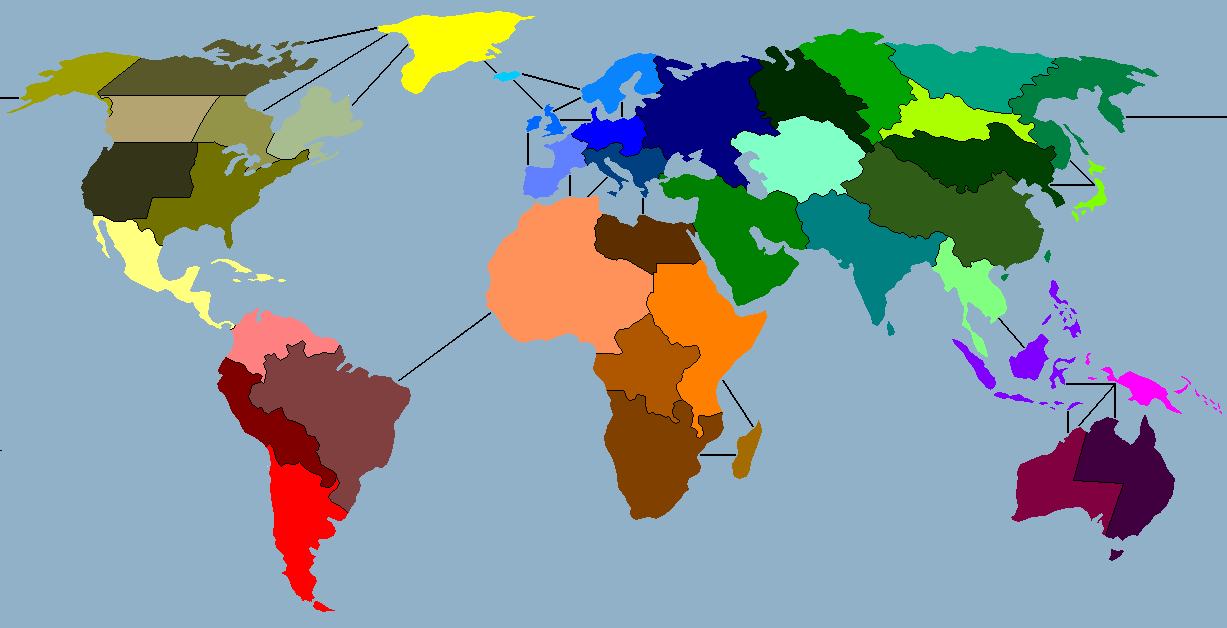
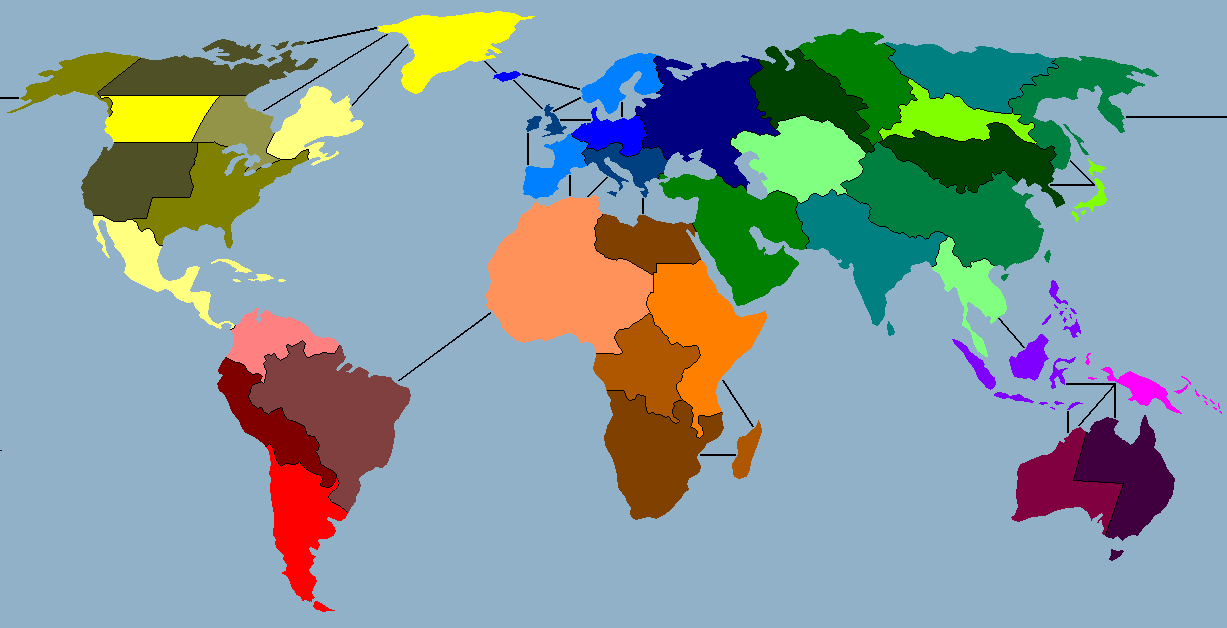
El mapa con las imagenes nuevas y las coordenadas correctas.

diff --git a/src/com/umbrella/worldconq/ui/MapView.java b/src/com/umbrella/worldconq/ui/MapView.java
@@ -8,19 +8,59 @@ import java.io.IOException;
 import javax.imageio.ImageIO;
 import javax.swing.JComponent;
 
-import com.umbrella.worldconq.domain.TerritoryData;
-
 public class MapView extends JComponent {
 
 	private static final long serialVersionUID = 1L;
 
 	private java.awt.Image fondo;
 	private java.awt.Image pais;
+	private String info;
 	private int x;
 	private int y;
+	private static int[] xTerritory = {
+			514, 492, 568, 579, 581, 632, 521, 728, 839, 793, 877, 1069, 1008,
+			657, 877, 931, 797, 746, 883, 591, 645, 593, 730, 483, 602, 5, 100,
+			93, 132, 375, 96, 190, 265, 80, 264, 247, 214, 224, 1073, 943,
+			1083, 1009
+	};
+	private static int[] yTerritory = {
+			102, 69, 105, 51, 130, 53, 132, 114, 140, 188, 78, 157, 54, 172,
+			120, 234, 26, 45, 40, 312, 257, 212, 418, 193, 389, 50, 95, 215,
+			140, 8, 38, 95, 85, 142, 442, 339, 355, 306, 413, 271, 351, 425
+	};
+	private static String[] imageTerritory = {
+			"eu1sel.png", "eu2sel.png", "eu3sel.png", "eu4sel.png",
+			"eu5sel.png", "eu6sel.png", "eu7sel.png", "as1sel.png",
+			"as2sel.png", "as3sel.png", "as4sel.png", "as5sel.png",
+			"as6sel.png", "as7sel.png", "as8sel.png", "as9sel.png",
+			"as10sel.png", "as11sel.png", "as12sel.png", "af1sel.png",
+			"af2sel.png", "af3sel.png", "af4sel.png", "af5sel.png",
+			"af6sel.png", "na1sel.png", "na2sel.png", "na3sel.png",
+			"na4sel.png", "na5sel.png", "na6sel.png", "na7sel.png",
+			"na8sel.png", "na9sel.png", "sa1sel.png", "sa2sel.png",
+			"sa3sel.png", "sa4sel.png", "oc1sel.png", "oc2sel.png",
+			"oc3sel.png", "oc4sel.png"
+	};
+	private static int[] colorTerritory = {
+			-16750593, -16724737, -16776961, -16153347, -16760704, -16777088,
+			-10452737, -8323129, -13673450, -16744320, -5439744, -8323328,
+			-16744384, -16744448, -16760832, -8323200, -16735488, -16766464,
+			-16735360, -5351680, -32768, -10670336, -6001920, -28325, -8372224,
+			-6382080, -4938639, -128, -9342720, -256, -10987477, -7039927,
+			-5784176, -13356007, -65536, -8372160, -8388608, -32640, -12582848,
+			-8388353, -65281, -8388544
+	}; //color agua -7228984
 
 	public MapView() {
 		super();
+	}
+
+	public static int getIndex(int color) {
+		int ret = -1;
+		for (int i = 0; i < colorTerritory.length; i++) {
+			if (color == colorTerritory[i]) ret = i;
+		}
+		return ret;
 	}
 
 	public java.awt.Image getPais() {
@@ -31,18 +71,30 @@ public class MapView extends JComponent {
 		this.pais = pais;
 	}
 
+	public static int getX(int idx) {
+		return xTerritory[idx];
+	}
+
+	public static int getY(int idx) {
+		return yTerritory[idx];
+	}
+
+	public static String getImageTerrirtory(int idx) {
+		return imageTerritory[idx];
+	}
+
 	public void ponerSel(int numTerritory) {
 		final String dir = System.getProperty("user.dir") + "/src/image/";
 		BufferedImage bi = null;
 		try {
 			bi = ImageIO.read(new File(dir
-					+ TerritoryData.getImageTerrirtory(numTerritory)));
+					+ getImageTerrirtory(numTerritory)));
 		} catch (final IOException e) {
 			// TODO Auto-generated catch block
 			e.printStackTrace();
 		}
-		x = TerritoryData.getX(numTerritory);
-		y = TerritoryData.getY(numTerritory);
+		x = getX(numTerritory);
+		y = getY(numTerritory);
 		this.setPais(bi);
 	}
 
@@ -54,9 +106,22 @@ public class MapView extends JComponent {
 		this.fondo = fondo;
 	}
 
+	public String getInfo() {
+		return info;
+	}
+
+	public void setInfo(String info) {
+		this.info = info;
+	}
+
 	@Override
-	public void paintComponent(Graphics g) {
+	public void paint(Graphics g) {
 		g.drawImage(fondo, 0, 0, null);
-		g.drawImage(pais, x, y, null);
+		if (pais != null) {
+			g.drawImage(pais, x, y, null);
+		}
+		if (info != null) {
+			g.drawString(info, x + 10, y + 10);
+		}
 	}
 }

diff --git a/src/com/umbrella/worldconq/domain/TerritoryData.java b/src/com/umbrella/worldconq/domain/TerritoryData.java
@@ -5,39 +5,23 @@ import es.uclm.iso2.rmi.Territory.Continent;
 
 public class TerritoryData {
 	private final static String[] nameList = {
-			"Alaska", "Alberta", "América Central", "Estados Unidos del Este",
-			"Groenlandia", "Territorios del Noroeste", "Ontario", "Quebec",
-			"Estados Unidos del Oeste", "Argentina", "Brasil", "Perú",
-			"Venezuela", "Gran Bretaña", "Iceland", "Europa del Norte",
-			"Escandinavia", "Europa del Sur", "Ucrania",
-			"Europa Occidental", "Congo", "África Oriental", "Egipto",
-			"Madagascar", "África del Norte", "Sudáfrica", "Afghanistan",
+			"Gran Bretaña", "Iceland", "Europa del Norte", "Escandinavia",
+			"Europa del Sur", "Ucrania", "Europa Occidental", "Afghanistan",
 			"China", "India", "Irkutsk", "Japón", "Kamchatka", "Oriente Medio",
-			"Mongolia", "Siam", "Siberia", "Ural", "Yakutsk",
-			"Australia Oriental", "Indonesia", "Nueva Guinea",
+			"Mongolia", "Siam", "Siberia", "Ural", "Yakutsk", "Congo",
+			"África Oriental", "Egipto", "Madagascar", "África del Norte",
+			"Sudáfrica", "Alaska", "Alberta", "América Central",
+			"Estados Unidos del Este", "Groenlandia",
+			"Territorios del Noroeste", "Ontario", "Quebec",
+			"Estados Unidos del Oeste", "Argentina", "Brasil", "Perú",
+			"Venezuela", "Australia Oriental", "Indonesia", "Nueva Guinea",
 			"Australia Occidental"
 	};
-	private static int[] colorTerritory = {
-			-6382080, -4938639, -128, -9342720, -256, -10987477, -7039927,
-			-5784176, -13356007, -65536, -8372160, -8388608, -32640, -16750593,
-			-16724737, -16776961, -16744193, -16760704, -16777088, -10452737,
-			-5351680, -32768, -10670336, -6001920, -28325, -8372224, -8323129,
-			-13673450, -16744320, -5439744, -8323328, -16744384, -16744448,
-			-16760832, -8323200, -16735488, -16766464, -16735360, -12582848,
-			-8388353, -65281, -8388544
-	}; //color agua -7228984
-
-	private static int[] xTerritory = {
-			5, 100, 93, 132, 375, 96, 190, 265, 80
-	};
-	private static int[] yTerritory = {
-			50, 95, 215, 140, 8, 38, 95, 85, 142
-	};
-
-	private static String[] imageTerritory = {
-			"ameunosel.png", "amedossel.png", "ametressel.png",
-			"amecuatrosel.png", "amecincosel.png", "ameseissel.png",
-			"amesietesel.png", "ameochosel.png", "amenuevesel.png"
+	private static int[] priceTerritory = {
+			279, 197, 191, 296, 183, 288, 109, 212, 294, 298, 189, 171, 234,
+			273, 247, 140, 275, 193, 261, 280, 146, 143, 211, 176, 188, 122,
+			172, 285, 274, 141, 198, 236, 129, 118, 281, 116, 251, 170, 125,
+			245, 124, 150
 	};
 
 	public static int getIndex(Continent c, int idx) {
@@ -66,27 +50,8 @@ public class TerritoryData {
 		return nameList[getIndex(t)];
 	}
 
-	public static int getIndex(int color) {
-		int ret = -1;
-		for (int i = 0; i < colorTerritory.length; i++) {
-			if (color == colorTerritory[i]) ret = i;
-		}
-		return ret;
-	}
-
-	public static int getX(int idx) {
-		return xTerritory[idx];
-
-	}
-
-	public static int getY(int idx) {
-		return yTerritory[idx];
-
-	}
-
-	public static String getImageTerrirtory(int idx) {
-		return imageTerritory[idx];
-
+	public static int getPrice(int idx) {
+		return priceTerritory[idx];
 	}
 
 	//	public static ArrayList<Integer> getAdjacentIndices(int idx) {

diff --git a/src/com/umbrella/worldconq/ui/MainWindow.java b/src/com/umbrella/worldconq/ui/MainWindow.java
@@ -24,7 +24,6 @@ import javax.swing.ListSelectionModel;
 import javax.swing.WindowConstants;
 
 import com.umbrella.worldconq.WorldConqApp;
-import com.umbrella.worldconq.domain.TerritoryData;
 
 public class MainWindow extends JFrame {
 
@@ -39,7 +38,8 @@ public class MainWindow extends JFrame {
 	private JTable mOpenList = null;
 	private JTable mCurrentList = null;
 	private JTable mMap = null;
-	private BufferedImage bi = null;
+	private BufferedImage bufferImageColorPixel = null;
+	private BufferedImage bufferImageMap = null;
 
 	public MainWindow() {
 		super();
@@ -145,9 +145,8 @@ public class MainWindow extends JFrame {
 			//	this.getClass().getClassLoader().getResource(
 			//		"image/Map_risk.png")));
 			try {
-				final String dir = System.getProperty("user.dir")
-						+ "/src/image/";
-				bi = ImageIO.read(new File(dir + "Map_risk.png"));
+				bufferImageColorPixel = ImageIO.read(ClassLoader.getSystemResource("image/Map_risk_buffer.png"));
+				bufferImageMap = ImageIO.read(ClassLoader.getSystemResource("image/Map_risk.png"));
 			} catch (final IOException e) {
 				e.printStackTrace();
 			}
@@ -155,7 +154,7 @@ public class MainWindow extends JFrame {
 			//final JScrollPane mapPanel = new JScrollPane(mapLabel);
 
 			final MapView mv = new MapView();
-			mv.setFondo(bi);
+			mv.setFondo(bufferImageMap);
 			mGamePanel.addMouseListener(new MapMouseAdapter(mv));
 			mGamePanel.add(mv);
 		}
@@ -180,7 +179,8 @@ public class MainWindow extends JFrame {
 			try {
 				final String dir = System.getProperty("user.dir")
 						+ "/src/image/";
-				bi = ImageIO.read(new File(dir + "Map_risk.png"));
+				bufferImageColorPixel = ImageIO.read(new File(dir
+						+ "Map_risk.png"));
 			} catch (final IOException e) {
 				e.printStackTrace();
 			}
@@ -311,16 +311,19 @@ public class MainWindow extends JFrame {
 
 		@Override
 		public void mouseClicked(MouseEvent evt) {
-			final int gameSelected = TerritoryData.getIndex(bi.getRGB(
+			final int gameSelected = MapView.getIndex(bufferImageColorPixel.getRGB(
 				evt.getX(), evt.getY()));
+			//System.out.print(bufferImageColorPixel.getRGB(evt.getX(), evt.getY()));
 			if (gameSelected != -1) {
-				mv.removeAll();
-				mv.setFondo(bi);
-				mv.ponerSel(gameSelected);
-				mv.repaint();
 				final String infoText =
 						app.getGameManager().getGameEngine().getMapListModel().getRowInfo(
 							gameSelected);
+				mv.removeAll();
+				mv.setFondo(bufferImageMap);
+				mv.ponerSel(gameSelected);
+				mv.setInfo(infoText);
+				mv.repaint();
+
 				//info.setToolTipText(infoText);
 				//System.out.println(infoText);
 			}
